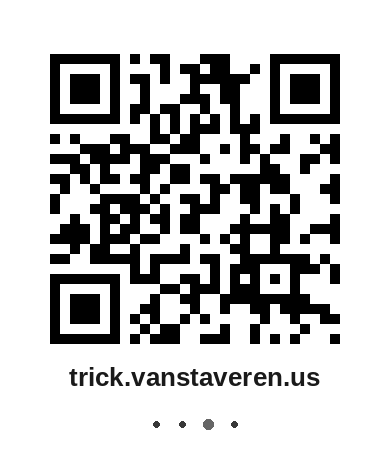
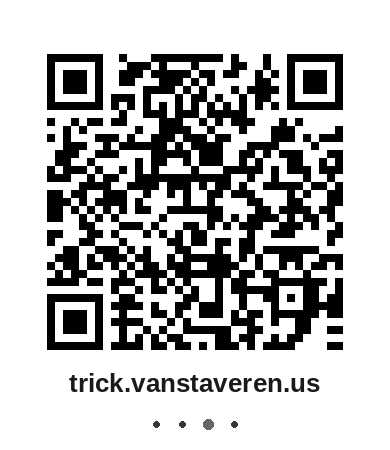
UTM-tag the URL QR cards; fix qr2png auto-label line matching
card1/card2 QRs now carry utm_source=bip6 utm_medium=qr
utm_campaign=v9n-card so QR-driven visits show up in analytics. The
vCard URL stays clean since it's stored visibly in the contact.

qr2png.py now pairs each QR block with the '[Device] app-version' line
specifically (ignoring zeus's '[?] ...' status lines) instead of
whatever text preceded the block.

Claude-Session: https://claude.ai/code/session_01Mmkrk9sDkbVzoiBDNpD5EP

Changed region(s): [[0.1231, 0.0933, 0.8923, 0.7778], [0.1846, 0.8089, 0.8308, 0.8711]]

diff --git a/qr2png.py b/qr2png.py
@@ -24,20 +24,22 @@ FONT_BOLD = "/usr/share/fonts/truetype/liberation/LiberationSans-Bold.ttf"
 
 
 def parse_blocks(lines):
-    """Split capture into contiguous half-block QR line groups, keeping the
-    non-QR line that precedes each (zeus prints '[Device] app-version' there)."""
-    blocks, cur, context, last_text = [], [], [], ""
+    """Split capture into contiguous half-block QR line groups, each paired
+    with the device line right above it: zeus prints '[Amazfit Bip 6]
+    app-version' as the last text line before the QR."""
+    blocks, cur, label = [], [], None
     for line in lines:
         if re.search(r"[█▀▄]", line):
             cur.append(line.rstrip())
         else:
             if cur:
-                blocks.append((last_text, cur))
-                cur = []
-            if line.strip():
-                last_text = line.strip()
+                blocks.append((label, cur))
+                cur, label = [], None
+            m = re.match(r"\[(?![✔✗x!])[^\]]+\]\s*(\S.*)", line.strip())
+            if m:
+                label = m.group(1).strip()
     if cur:
-        blocks.append((last_text, cur))
+        blocks.append((label, cur))
     return blocks
 
 
@@ -87,8 +89,7 @@ def main():
         sys.exit("no QR block found in " + src)
     context, qr_lines = blocks[-1]
     if label is None:
-        m = re.search(r"\[[^\]]+\]\s*(\S.*)", context)
-        label = m.group(1).strip() if m else "unknown app"
+        label = context or "unknown app"
 
     rows = block_to_matrix(qr_lines)
     qw = (len(rows[0]) + 2 * QUIET) * MODULE

diff --git a/v9n-card-app/gen_cards.py b/v9n-card-app/gen_cards.py
@@ -35,8 +35,10 @@ VCARD = "\r\n".join([
 ])
 
 CARDS = [
-    ("card1.png", "https://v9n.us", "v9n.us"),
-    ("card2.png", "https://trick.vanstaveren.us", "trick.vanstaveren.us"),
+    # UTM args so QR-driven visits are tellable apart in analytics; the
+    # vCard URL stays clean because it's stored visibly in the contact.
+    ("card1.png", "https://v9n.us/?utm_source=bip6&utm_medium=qr&utm_campaign=v9n-card", "v9n.us"),
+    ("card2.png", "https://trick.vanstaveren.us/?utm_source=bip6&utm_medium=qr&utm_campaign=v9n-card", "trick.vanstaveren.us"),
     ("card3.png", VCARD, "save my number"),
 ]
 
